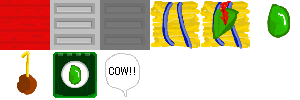
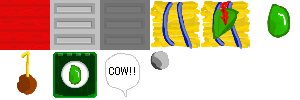
Humans throw rocks properly and stuff
I'm pretty sure that's all the game Logic! :D

Changed region(s): [[0.48, 0.51, 0.57, 0.72]]

diff --git a/project_tag8/src/bropals/gameobject/Stone.java b/project_tag8/src/bropals/gameobject/Stone.java
@@ -1,0 +1,69 @@
+/*
+ * To change this template, choose Tools | Templates
+ * and open the template in the editor.
+ */
+package bropals.gameobject;
+
+import bropals.debug.Debugger;
+import bropals.engine.Engine;
+import bropals.gameobject.block.Block;
+import bropals.graphics.ImageLoader;
+import bropals.util.Vector2;
+import java.awt.geom.Line2D;
+import java.awt.geom.Rectangle2D;
+import java.awt.image.BufferedImage;
+
+/**
+ *
+ * @author Owner
+ */
+public class Stone extends GameObject {
+    
+    Vector2 stoneMoveVector;
+    float STONE_SPEED = 25;
+    
+    public Stone(float x, float y, Vector2 moveVector) {
+        super(x, y);
+        this.stoneMoveVector = moveVector;
+    }
+    
+    public void update() {
+        if (getParent() == null || getParent().getObjects() == null) return;
+        
+        Debugger.print("The stone is getting updated!", Debugger.INFO);
+        
+        System.out.println("The stone's velocity: "+stoneMoveVector.toString());
+        setX((float)(getX() + (stoneMoveVector.getX() * STONE_SPEED)));
+        setY((float)(getY() + (stoneMoveVector.getY() * STONE_SPEED)));
+        
+        for (int i=0; i<getParent().getObjects().size(); i++) {
+            GameObject obj = (GameObject) getParent().getObjects().get(i);
+            if (obj == this) continue;
+            Line2D.Float travelLine = new Line2D.Float(getX(), getY(), 
+                    getX() - (float)stoneMoveVector.getX(), getY() - (float)stoneMoveVector.getY());
+            if (obj instanceof Block) {
+               if (((Block)obj).getRectangle2D().intersectsLine(travelLine)) {
+                   setParent(null); // remove if it smacks into a wall
+                   break;
+               }
+            }
+            if (obj instanceof Player) {
+                if ((new Rectangle2D.Float(((Player)obj).getX(), 
+                        ((Player)obj).getY(), ((Player)obj).getWidth(), 
+                        ((Player)obj).getHeight())).intersectsLine(travelLine)) {
+                    ((Player)obj).damage();
+                    setParent(null);
+                    break;
+                }
+            }
+        }
+        
+        // remove if out of the screen bounds
+        if (getX() < 0 || getX() > Engine.SCREEN_WIDTH || getY() < 0 || getY() > Engine.SCREEN_HEIGHT) setParent(null);
+    }
+
+    @Override
+    public BufferedImage getTexture() {
+        return ImageLoader.getLoader().getImage("Blocks", 9);
+    }
+}

diff --git a/project_tag8/src/bropals/gameobject/Human.java b/project_tag8/src/bropals/gameobject/Human.java
@@ -44,7 +44,7 @@ public class Human extends Creature {
     private float fieldOfView;
     private float attackDistance;
     private int attackTimer;
-    private final int ATTACK_SPEED = 20; // frames
+    private final int ATTACK_SPEED = 35; // frames
     private float turnSpeed;
     
     public Human(float x, float y, float size, float speed, Vector2 faceDirection) {
@@ -155,8 +155,7 @@ public class Human extends Creature {
                     facePoint(playerRef.getCenterX(), playerRef.getCenterY());
                     
                     if (attackTimer > ATTACK_SPEED && attackDistance*attackDistance > (xDiff*xDiff)+(yDiff*yDiff)) {
-                        setStandingStill(true);
-                        playerRef.damage();
+                        shootAtPlayer();
                         attackTimer = 0;
                     }
                 }
@@ -192,6 +191,15 @@ public class Human extends Creature {
         }
         attackTimer++;
         super.update();
+    }
+    
+    public void shootAtPlayer() {
+        float diffX = playerRef.getCenterX() - getCenterX();
+        float diffY = playerRef.getCenterY() - getCenterY();
+        Vector2 bulletVector = (new Vector2(diffX, diffY)).getUnitVector();
+        Stone stone = new Stone(getCenterX() + (float)(20*bulletVector.getX()), 
+                getCenterY() + (float)(20*bulletVector.getY()), bulletVector);
+        stone.setParent(getParent());
     }
     
     public boolean canSeePlayer() {

diff --git a/project_tag8/src/bropals/level/AreaRunner.java b/project_tag8/src/bropals/level/AreaRunner.java
@@ -13,6 +13,7 @@ import bropals.gameobject.GameObject;
 import bropals.gameobject.GrappleHookPoint;
 import bropals.gameobject.MouseInteractable;
 import bropals.gameobject.Player;
+import bropals.gameobject.Stone;
 import bropals.util.Direction;
 import bropals.util.Vector2;
 import java.awt.Point;
@@ -42,7 +43,7 @@ public class AreaRunner {
         areaFactory = new AreaFactory();
         player = new Player(150, 150);
         //Initial area
-        setCurrentArea(-2);
+        setCurrentArea(1);
     }
     
     public Area getCurrentArea() {
@@ -121,6 +122,9 @@ public class AreaRunner {
         for (int i=0; i<objects.size(); i++) {
             if (objects.get(i) instanceof Creature) {
                 ((Creature)objects.get(i)).update();
+            }
+            if (objects.get(i) instanceof Stone) {
+                ((Stone)objects.get(i)).update();
             }
         }
         // look for other interactables

diff --git a/project_tag8/src/bropals/level/AreaFactory.java b/project_tag8/src/bropals/level/AreaFactory.java
@@ -22,6 +22,7 @@ import bropals.gameobject.block.TeleportDoor;
 import bropals.gameobject.block.Wall;
 import bropals.util.Direction;
 import bropals.util.Direction;
+import bropals.util.Vector2;
 
 /**
  *
@@ -68,6 +69,15 @@ public class AreaFactory {
                 
                 NormalDoor door = new NormalDoor(220, 403, 100, 15);
                 door.setParent(theArea);
+                
+                Human snarker = new Human(550, 450, 40, 10, Vector2.UNIT_Y);
+                snarker.setPatrolPath(new Waypoint[]{
+                    new Waypoint(550, 450, 10), new Waypoint(500, 150, 10)
+                });
+                snarker.setType(HumanType.ROCK_THROWER);
+                snarker.setParent(theArea);
+                snarker.givePlayerRef(theArea.getPlayer());
+                        
                 break;
             case -2:
             //Debugger.print("I am running setArea!", Debugger.INFO);
